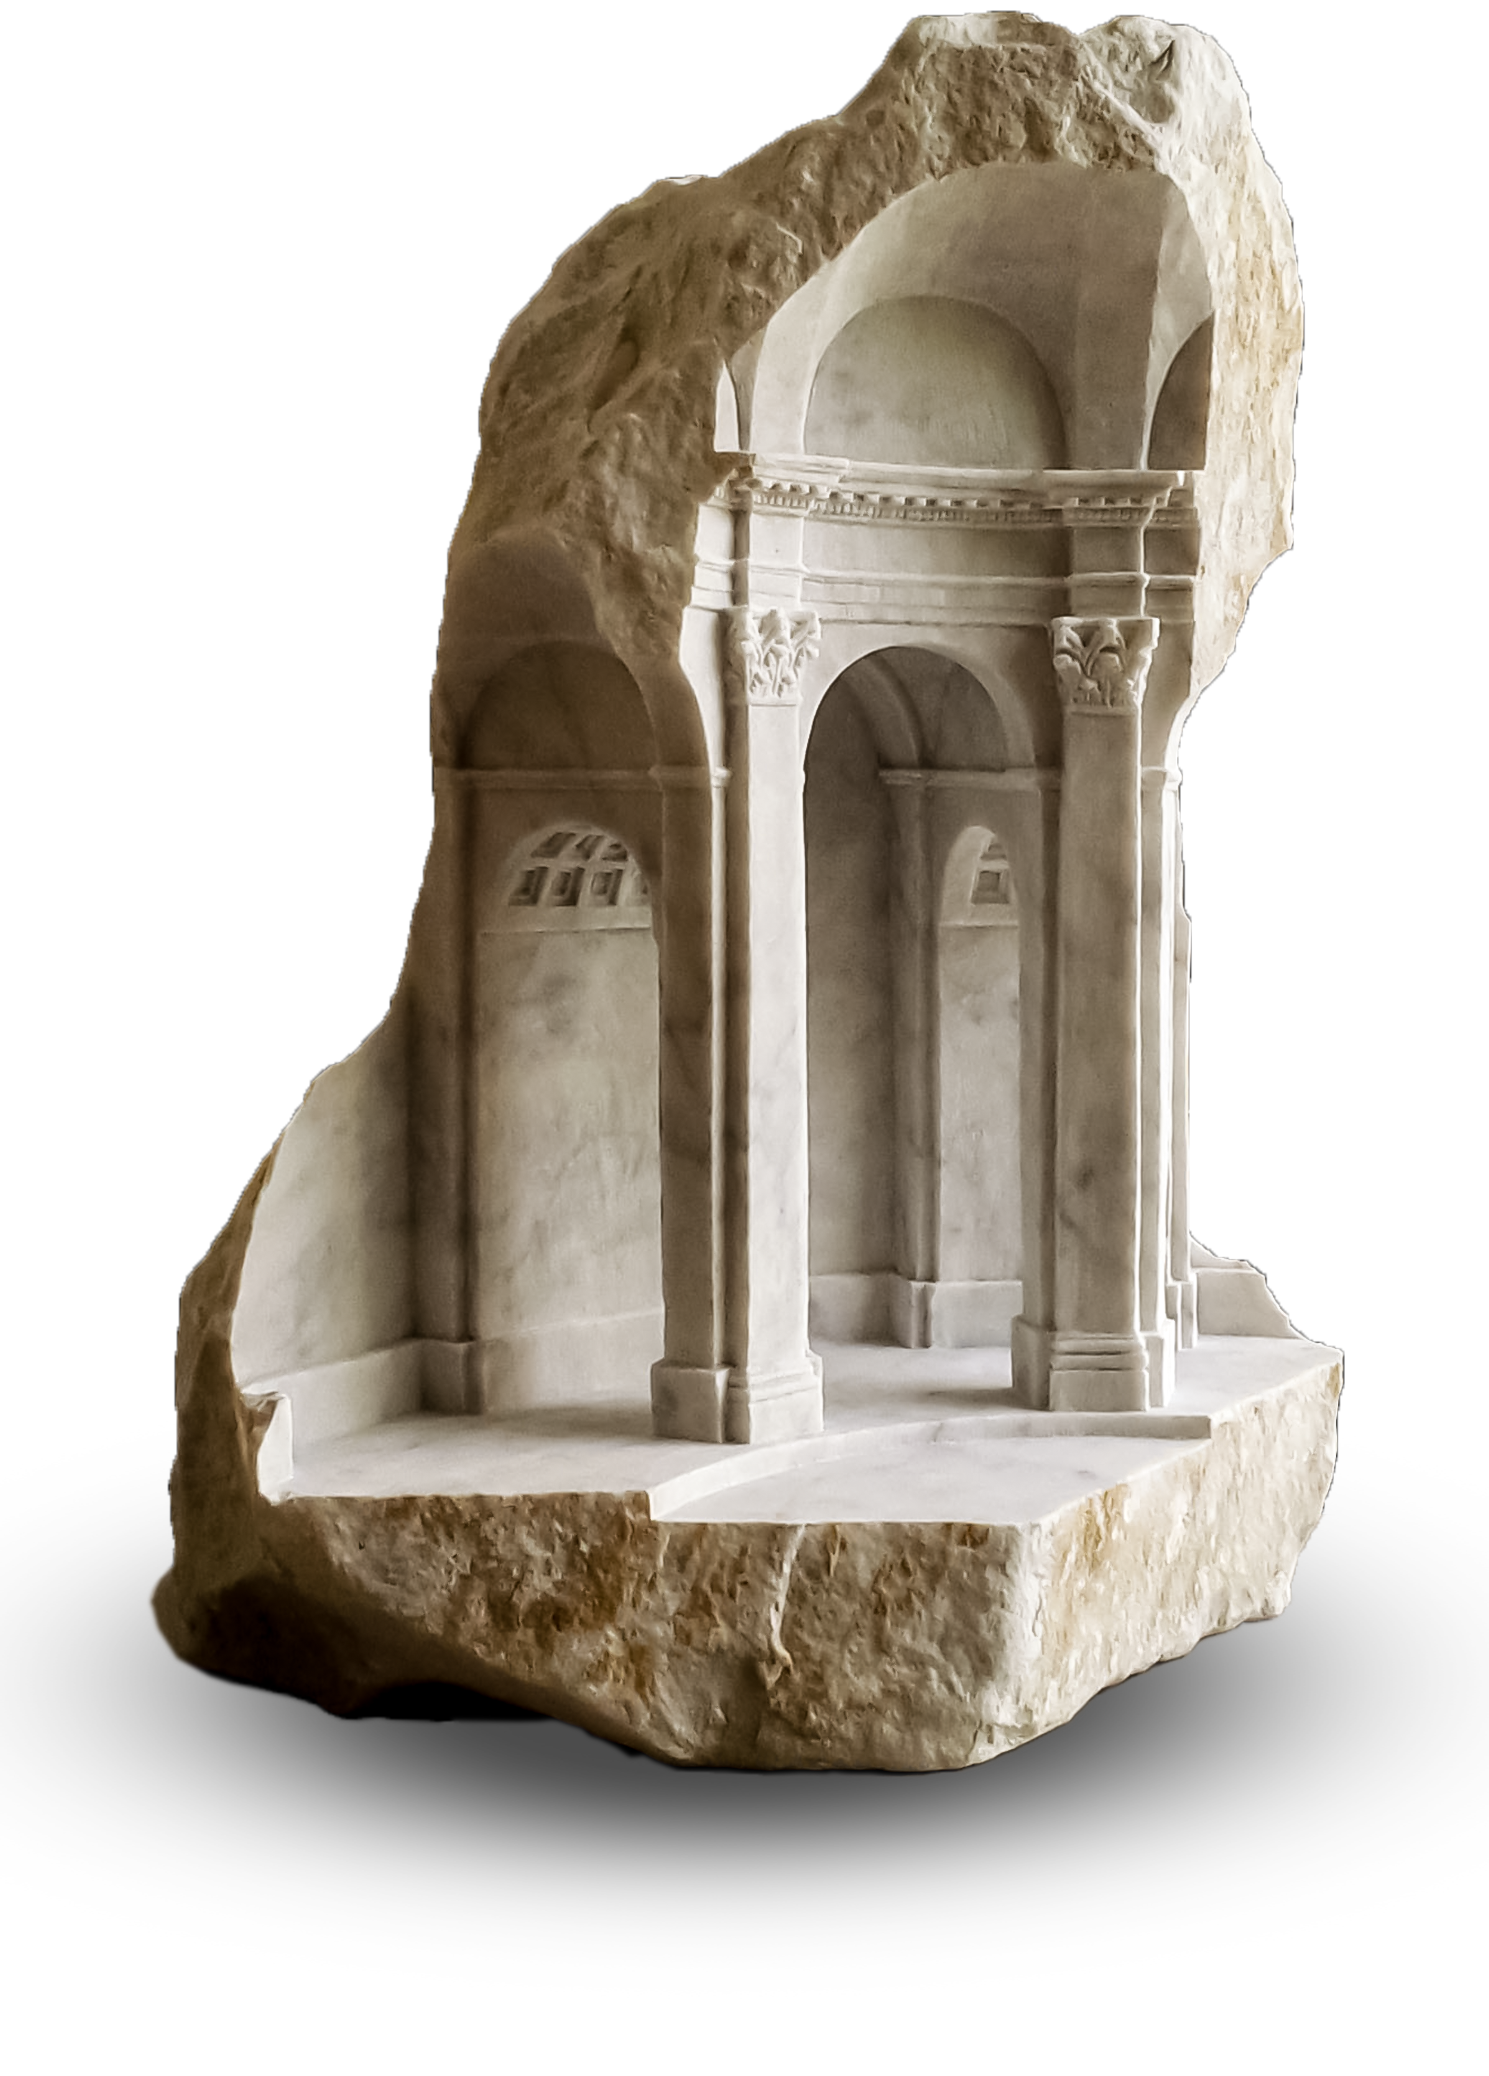
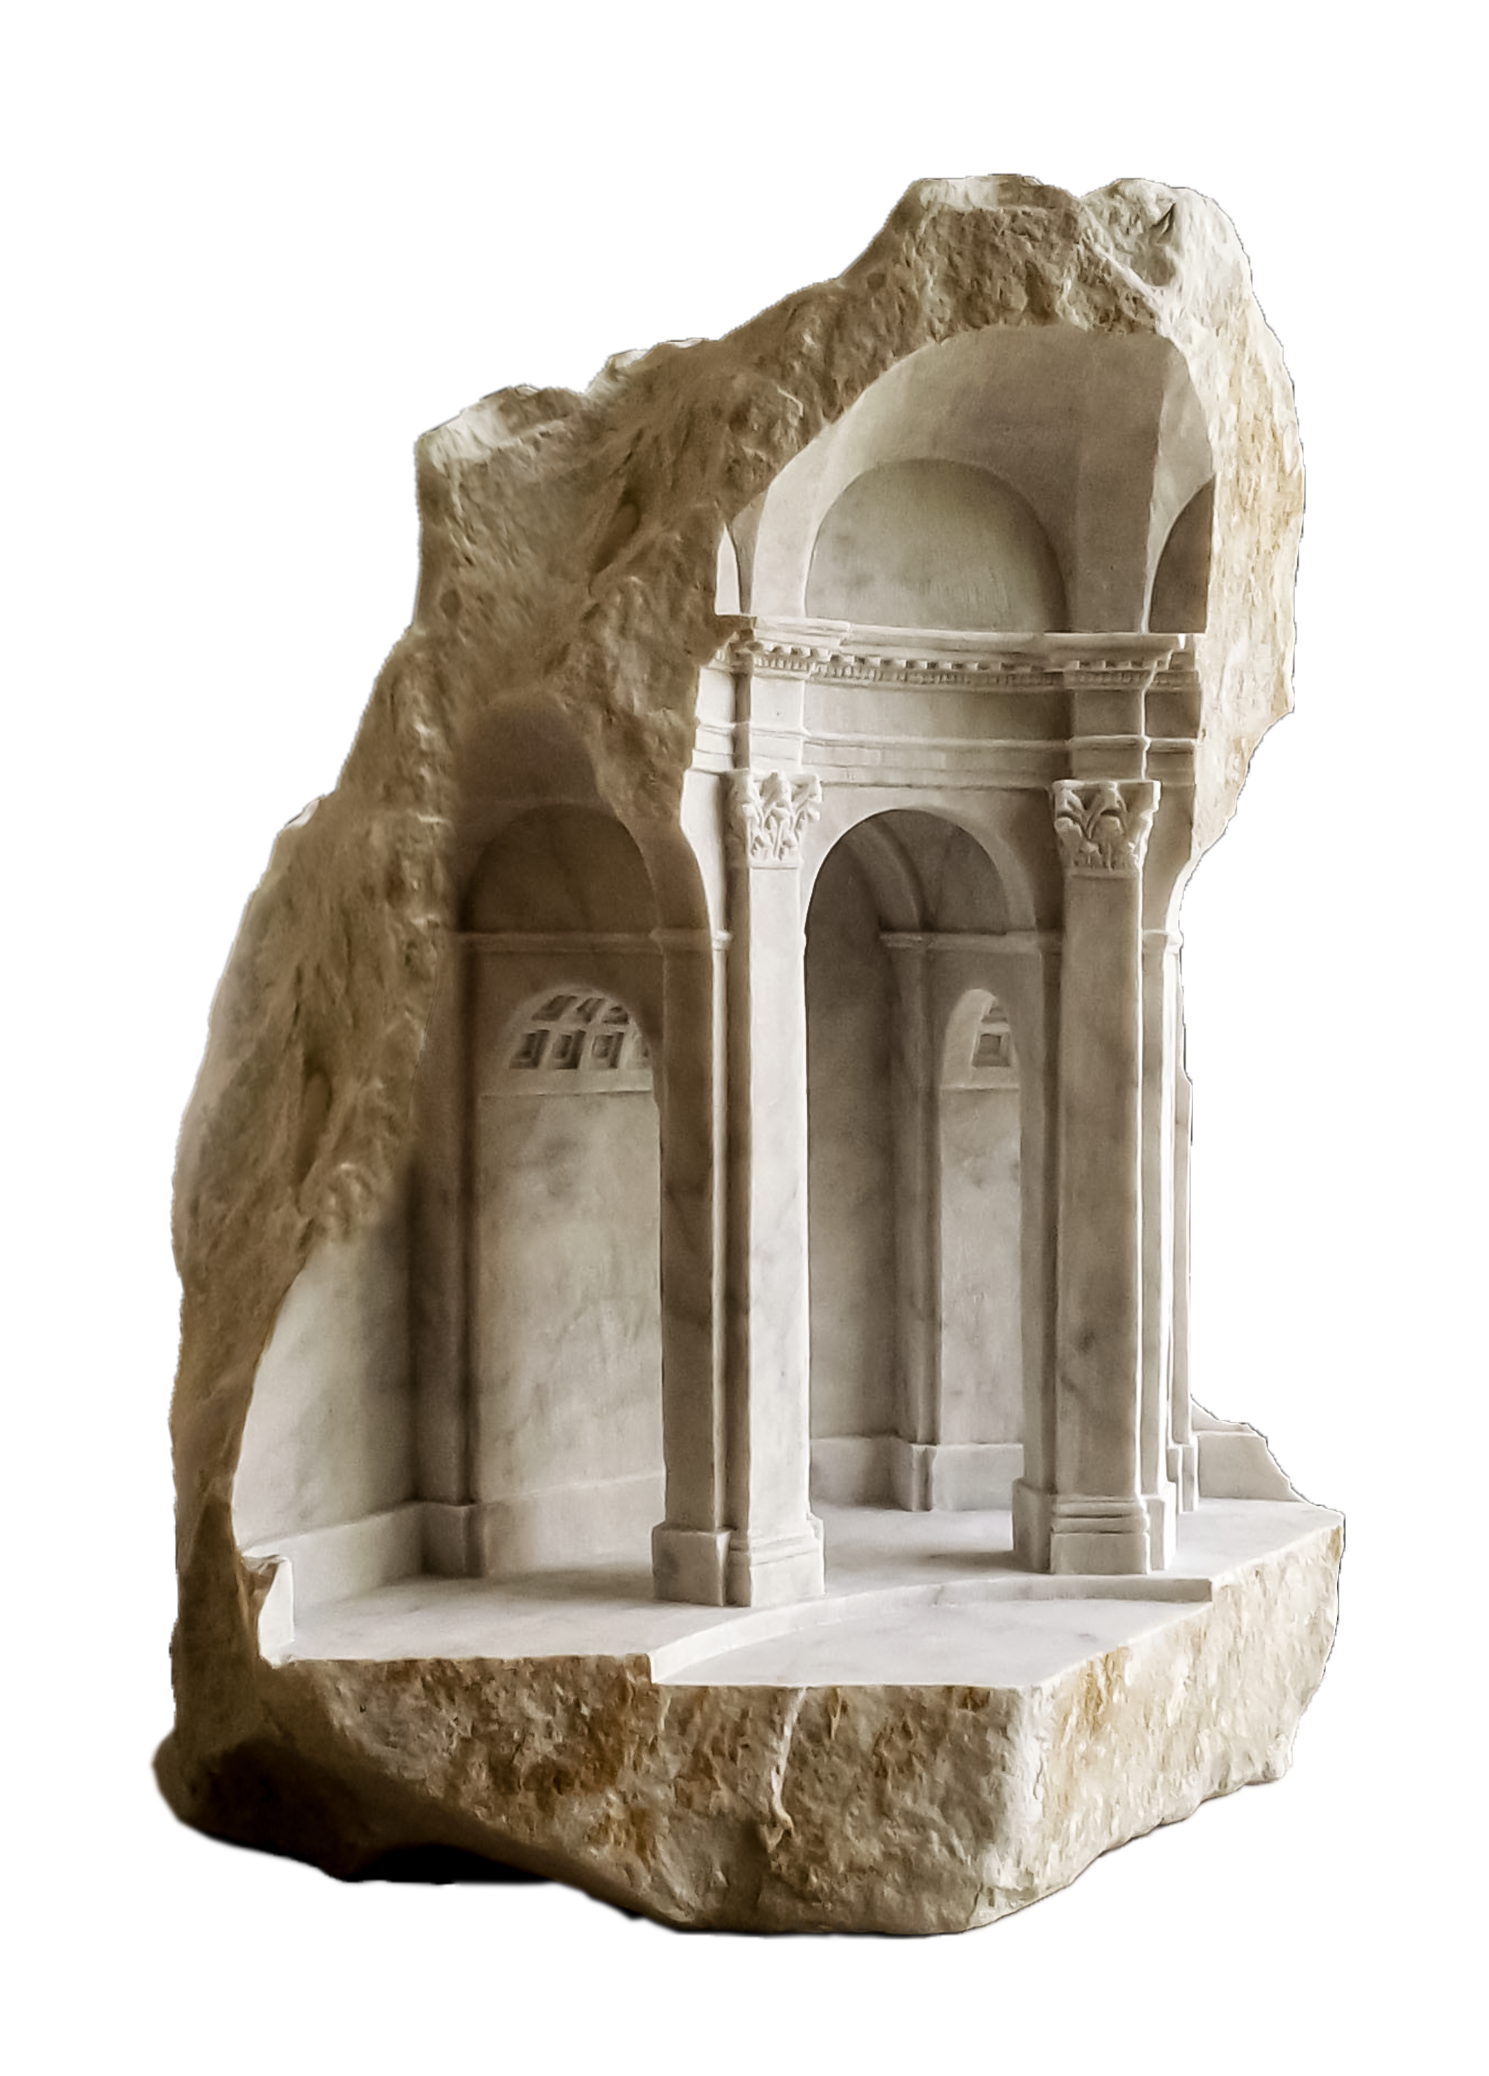
Navbar and Showcase become responsive

diff --git a/assets/js/script.js b/assets/js/script.js
@@ -21,14 +21,15 @@ const links = document.querySelectorAll("nav .link");
 
 for (let link of links) {
   link.addEventListener("mouseover", function () {
-    navbar.classList.add("fullShadow");
-    if (navbar.classList.contains("verticalNav")) {
-      navbar.classList.remove("fullShadow"); // link hover shadow Off on vertical mode
+    nav.classList.add("fullShadow");
+    let screenWidth = window.innerWidth;
+    if (nav.classList.contains("verticalNav") && screenWidth >= 900) {
+      nav.classList.remove("fullShadow"); // link hover shadow Off on vertical mode
     }
   });
 
   link.addEventListener("mouseout", function () {
-    navbar.classList.remove("fullShadow");
+    nav.classList.remove("fullShadow");
   });
 }
 
@@ -46,7 +47,7 @@ showSearchBar.onclick = () => {
 const showcase = document.querySelector("#showcase");
 const arrow = document.querySelector("#showcase .arrow");
 const showcaseImg = document.querySelector("#showcase .imgBox");
-const navbar = document.querySelector("nav");
+const nav = document.querySelector("nav");
 const menuIcon = document.querySelector("nav .menuIcon");
 const intro = document.querySelector("#showcase .intro");
 const showcaseTitle = document.querySelector("#showcase .title");
@@ -54,19 +55,23 @@ const showcaseTitle = document.querySelector("#showcase .title");
 window.onscroll = () => {
   showcaseTitle.classList.add("moveDown");
   if (window.scrollY > window.innerHeight / 50) {
-    navbar.classList.remove("navbar");
-    navbar.classList.add("verticalNav");
+    nav.classList.remove("navbar");
+    nav.classList.add("verticalNav");
     showcaseImg.classList.add("hide");
-    navbar.classList.add("hide"); // Close verticalNav
+    nav.classList.add("hide"); // Close verticalNav
     // Showcase Intro Change mode
     arrow.classList.add("hide");
     intro.classList.add("fullScreen");
   } else {
-    // Close Sidebar mode
-    navbar.classList.add("navbar");
+    if (window.innerWidth <= 900) {
+      nav.classList.remove("navbar");
+    } else {
+      // Close Sidebar mode
+      nav.classList.add("navbar");
+      nav.classList.remove("verticalNav"); // Back to navbar mode
+      nav.classList.add("hide"); // Close verticalNav
+    }
     showcaseTitle.classList.remove("moveDown");
-    navbar.classList.remove("verticalNav"); // Back to navbar mode
-    navbar.classList.add("hide"); // Close verticalNav
     arrow.classList.remove("hide"); // Hide flashing arrow
     intro.classList.remove("fullScreen"); // Showcase Intro Change to Initial mode
     intro.classList.add("closeFullScreen");
@@ -85,7 +90,7 @@ window.onscroll = () => {
 
 // Open Navbar as a Sidebar
 menuIcon.addEventListener("click", function () {
-  navbar.classList.toggle("hide");
+  nav.classList.toggle("hide");
   const verticalNav = document.querySelector(".verticalNav");
   verticalNav.style.transition = "all 0.4s ease";
 });
@@ -131,14 +136,16 @@ for (const h3 of navServicesH3s) {
 function Responsive() {
   let screenWidth = window.innerWidth;
   if (screenWidth <= 900) {
-    navbar.classList.add("shrink");
+    nav.classList.add("hide"); // Close verticalNav
+    nav.classList.remove("navbar");
+    nav.classList.add("verticalNav");
   } else {
-    navbar.classList.remove("shrink");
+    nav.classList.add("navbar");
+    nav.classList.remove("verticalNav");
   }
 }
 
 window.addEventListener("resize", Responsive);
+Responsive();
 
 //* ========== Showcase ==========
-
-// TODO ========== Click on the Arrow icon and move to the next section ==========

diff --git a/assets/css/style.css b/assets/css/style.css
@@ -239,9 +239,9 @@ data-front="بیشتر بخوانید"
 
 .showcase .imgBox {
   position: absolute;
-  top: 11%;
-  left: -7%;
-  width: fit-content;
+  top: 4%;
+  left: -14%;
+  width: 60vw;
   height: 115vh;
   overflow: hidden;
   opacity: 1;
@@ -250,6 +250,8 @@ data-front="بیشتر بخوانید"
   -moz-transition: all .3s ease;
   -ms-transition: all .3s ease;
   -o-transition: all .3s ease;
+  filter: drop-shadow(-20px 20px 30px #00000040);
+  -webkit-filter: drop-shadow(-20px 20px 30px #00000040);
 }
 
 .showcase .imgBox.hide {
@@ -261,8 +263,7 @@ data-front="بیشتر بخوانید"
   width: 100%;
   height: 100%;
   object-fit: contain;
-  filter: drop-shadow(-20px 20px 30px #00000099);
-  -webkit-filter: drop-shadow(-20px 20px 30px #00000099);
+
 }
 
 /*? ============ Showcase Title ============ */
@@ -884,11 +885,100 @@ data-front="بیشتر بخوانید"
 /** ===== Responsive ===== */
 
 /* Big Screen */
-@media screen and (max-width: 1200px) {}
+@media screen and (max-width: 1200px) {
+  .showcase .title{
+    scale: 80%;
+  }
+  .showcase .intro.fullScreen .brandName .name{
+    width: 50vw;
+  }
+  .showcase .intro.fullScreen .introContent .introTitle{
+    width: 90%;
+  }
+  .showcase .intro.fullScreen .introContent .introVideo{
+    width: 80%;
+  }
+  .showcase .imgBox {
+    scale: 95%;
+    top: 6%;
+    left: -9%;
+  }
+}
 
 /* Desktop */
-@media screen and (max-width: 900px) {}
-
+@media screen and (max-width: 900px) {
+  .showcase .boxOne {
+    width: 60vw;
+    height: 65vh;
+  }
+  .showcase .boxTow{
+    width: 50vw;
+    height: 75vh;
+  }
+  @keyframes closeFullScreen {
+    100% {
+      width: 60vw;
+      height: 35vh;
+    }
+      70% {
+      width: 60vw;
+      height: 90vh;
+    }
+      50% {
+      width: 60vw;
+      border-radius: 70px 70px 0 0;
+      -webkit-border-radius: 70px 70px 0 0;
+      -moz-border-radius: 70px 70px 0 0;
+      -ms-border-radius: 70px 70px 0 0;
+      -o-border-radius: 70px 70px 0 0;
+    }
+      0% {
+      width: 100%;
+      height: 100vh;
+      bottom: 0;
+      box-shadow: none;
+      border-radius: 0;
+      -webkit-border-radius: 0;
+      -moz-border-radius: 0;
+      -ms-border-radius: 0;
+      -o-border-radius: 0;
+    }
+  }
+  .showcase .imgBox {
+    scale: 130%;
+    top: 12%;
+    left: -9%;
+  }
+  @keyframes intro {
+    0% {
+      width: 60vw;
+      height: 50vh;
+    }
+    50% {
+      width: 60vw;
+      height: 90vh;
+    }
+    70% {
+      width: 60vw;
+      border-radius: 70px 70px 0 0;
+      -webkit-border-radius: 70px 70px 0 0;
+      -moz-border-radius: 70px 70px 0 0;
+      -ms-border-radius: 70px 70px 0 0;
+      -o-border-radius: 70px 70px 0 0;
+    }
+    100% {
+      width: 100%;
+      height: 100vh;
+      bottom: 0;
+      box-shadow: none;
+      border-radius: 0;
+      -webkit-border-radius: 0;
+      -moz-border-radius: 0;
+      -ms-border-radius: 0;
+      -o-border-radius: 0;
+    }
+  }
+}
 
 /* Tablet */
 @media screen and (max-width: 768px) {

diff --git a/assets/css/navbar.css b/assets/css/navbar.css
@@ -21,7 +21,7 @@
 }
 
 .navbar.fullShadow {
-  box-shadow: rgba(0, 0, 0, 0.4) 0px 0px 0px 1000px;
+  box-shadow: rgba(0, 0, 0, 0.4) 0px 0px 0px 4000px;
   border: 1px solid var(--color-border-white-navbar);
 }
 
@@ -1281,6 +1281,10 @@ p {
 
   .navbar .navLinks .services .dropdown .content .list .specialPart .imgBox {
     height: 100px;
+  }
+
+  .navbar .navLinks .services .dropdown .content .verticalLine {
+    height: 370px;
   }
 
   .navbar .navLinks .blog .dropdown .blogTitle,
